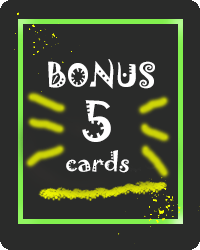
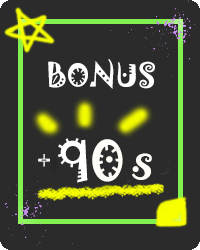
move 5 card to L5, swtich 90s card to L4

diff --git a/cards.js b/cards.js
@@ -616,9 +616,8 @@ function checkBonus(c1,c2){
         return true;
 
     } else if (c1.img === bonusImages[6]){
-        bonusFlip = 5;
-        matchAni(c1, c2, '+5 open');
-        openBonusCards(bonusFlip);
+        levelTime += 90;
+        matchAni(c1, c2, '+90s');
         return true;
 
     } else if (c1.img === bonusImages[7]){
@@ -638,8 +637,9 @@ function checkBonus(c1,c2){
         return true;
 
     } else if (c1.img === bonusImages[9]){
-        levelTime += 90;
-        matchAni(c1, c2, '+90s');
+        bonusFlip = 5;
+        matchAni(c1, c2, '+5 open');
+        openBonusCards(bonusFlip);
         return true;
 
     } else {
@@ -651,9 +651,8 @@ function openBonusCards(count){
   for (let i = 0; i < count; i++){
     let openCard = random(cards);
     if (openCard.flipped){
-      // openCard = random(cards);
       console.log('random openCard already flipped',openCard);
-      count++;
+      count++; // need to random again to open an unflipped card.
     } else {
       openCard.flip();
       openCard.setBonus();
@@ -688,7 +687,7 @@ function matchAni(c1,c2,msg){
   let w1 = new winPair.Sprite(c1.w/2+c1.x, c1.y, 1, 'n');
   let w2 = new winPair.Sprite(c2.w/2+c2.x, c2.y, 1, 'n');
   w1.text = w2.text = msg;
-  winPair.visible = true;
+  winPair.visible = true; // winPair life = 2 sec
 }
 
 // Win game screen
